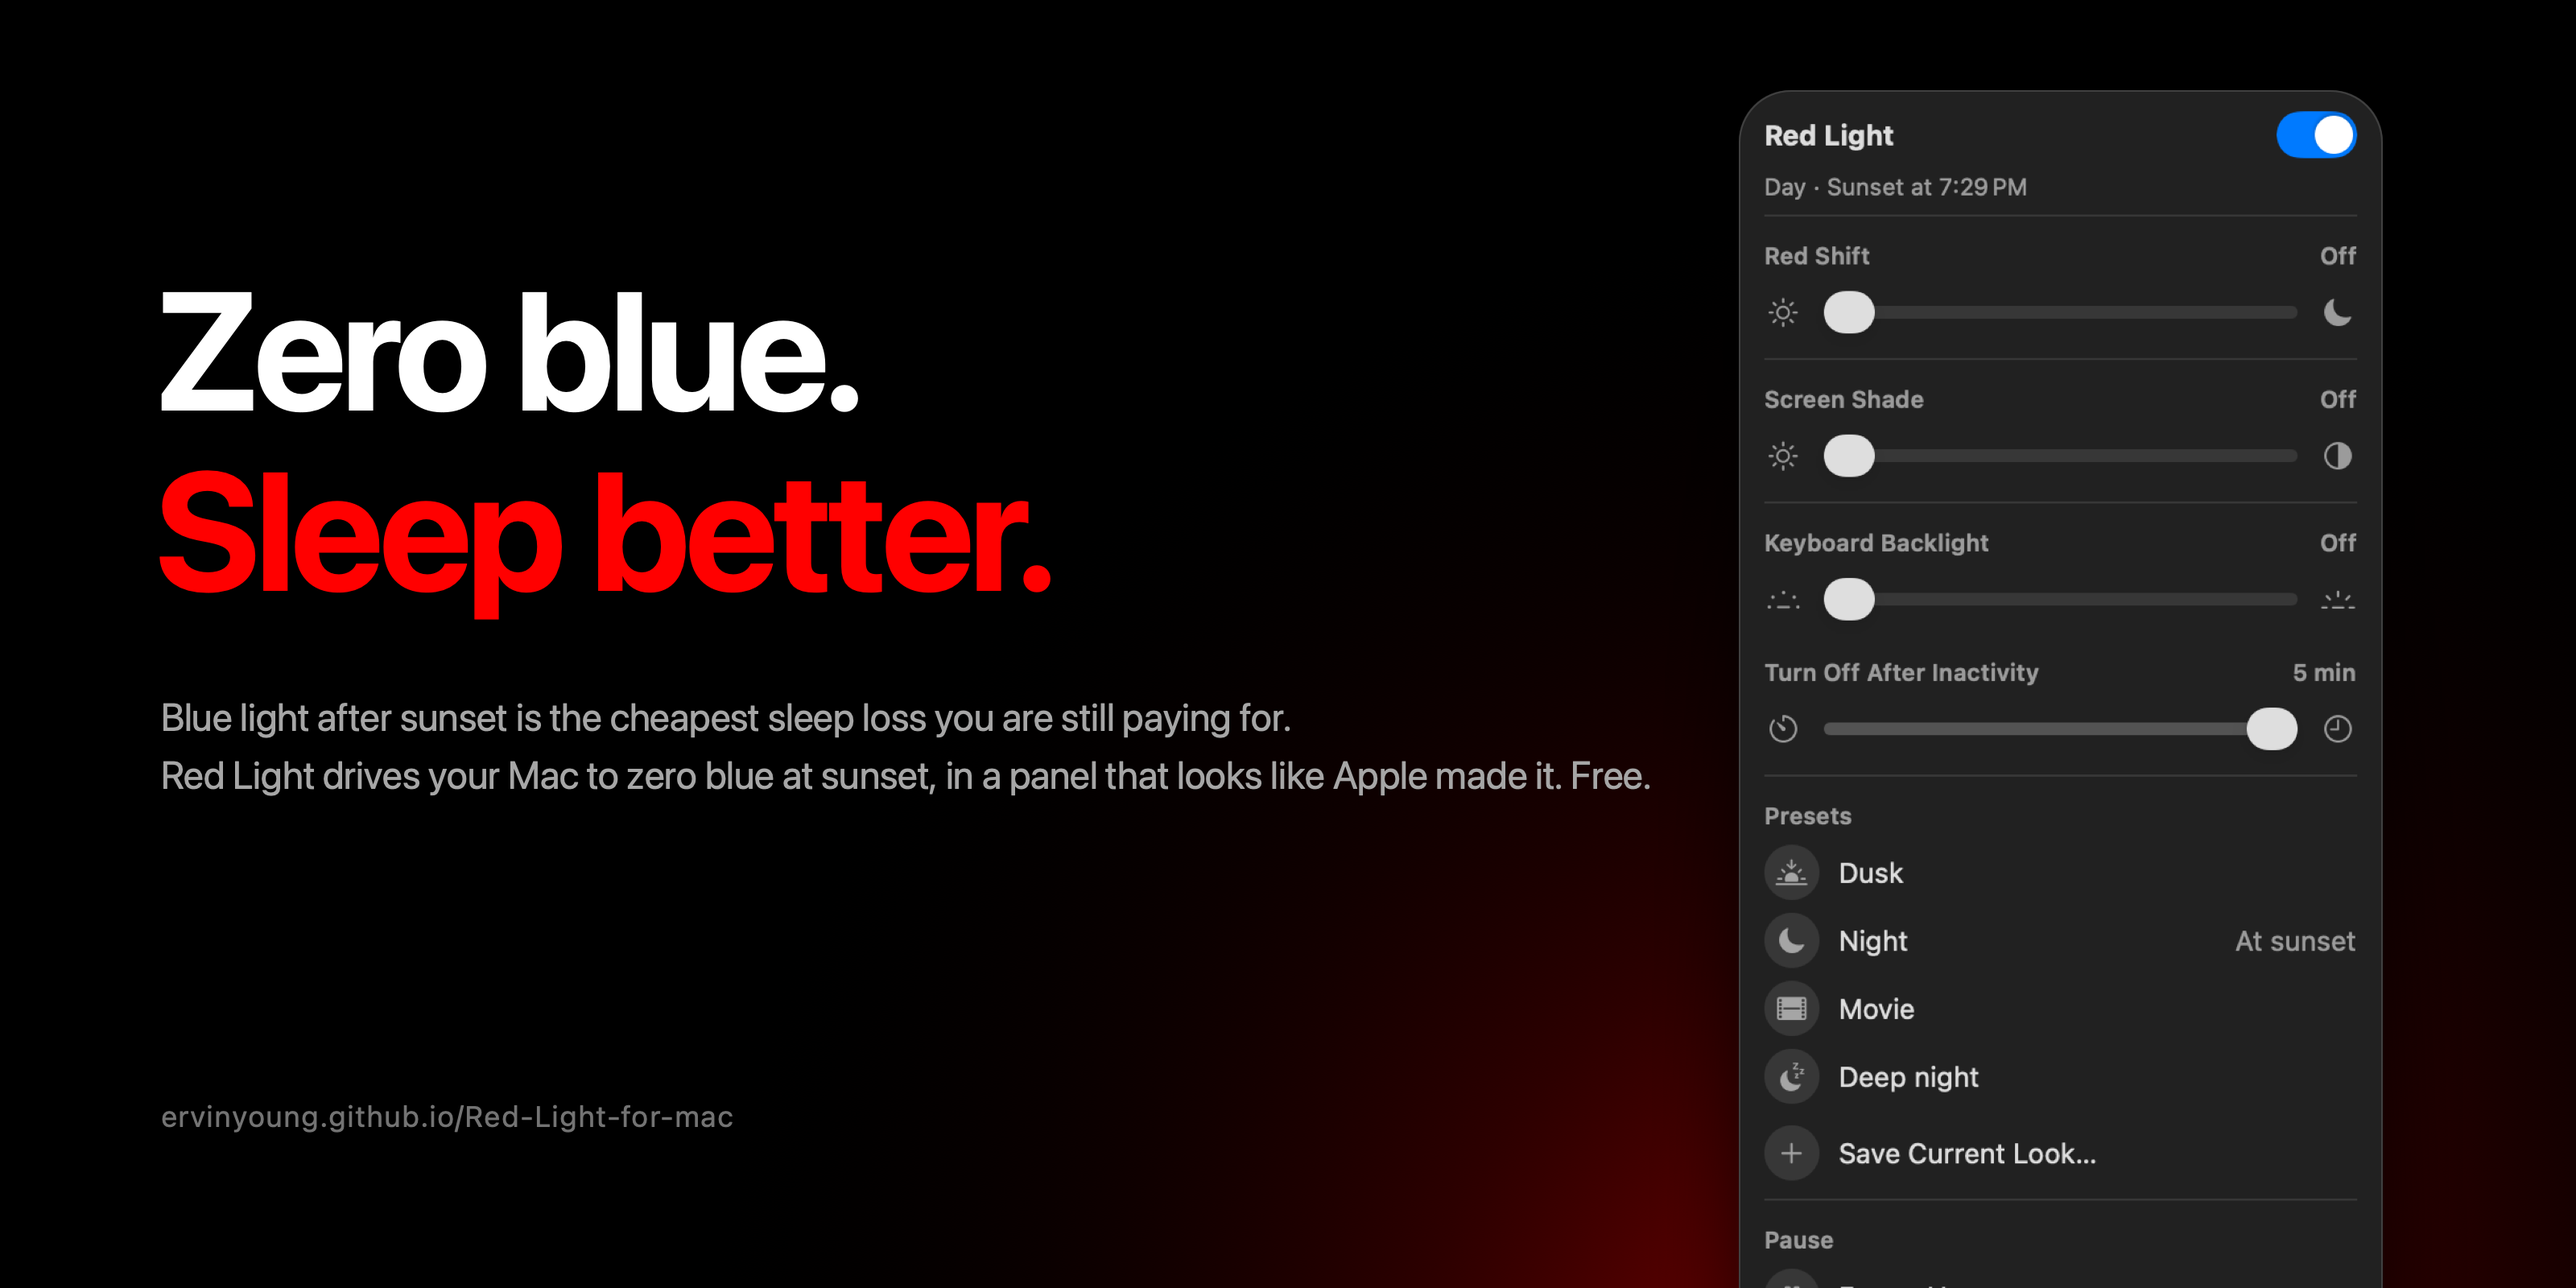
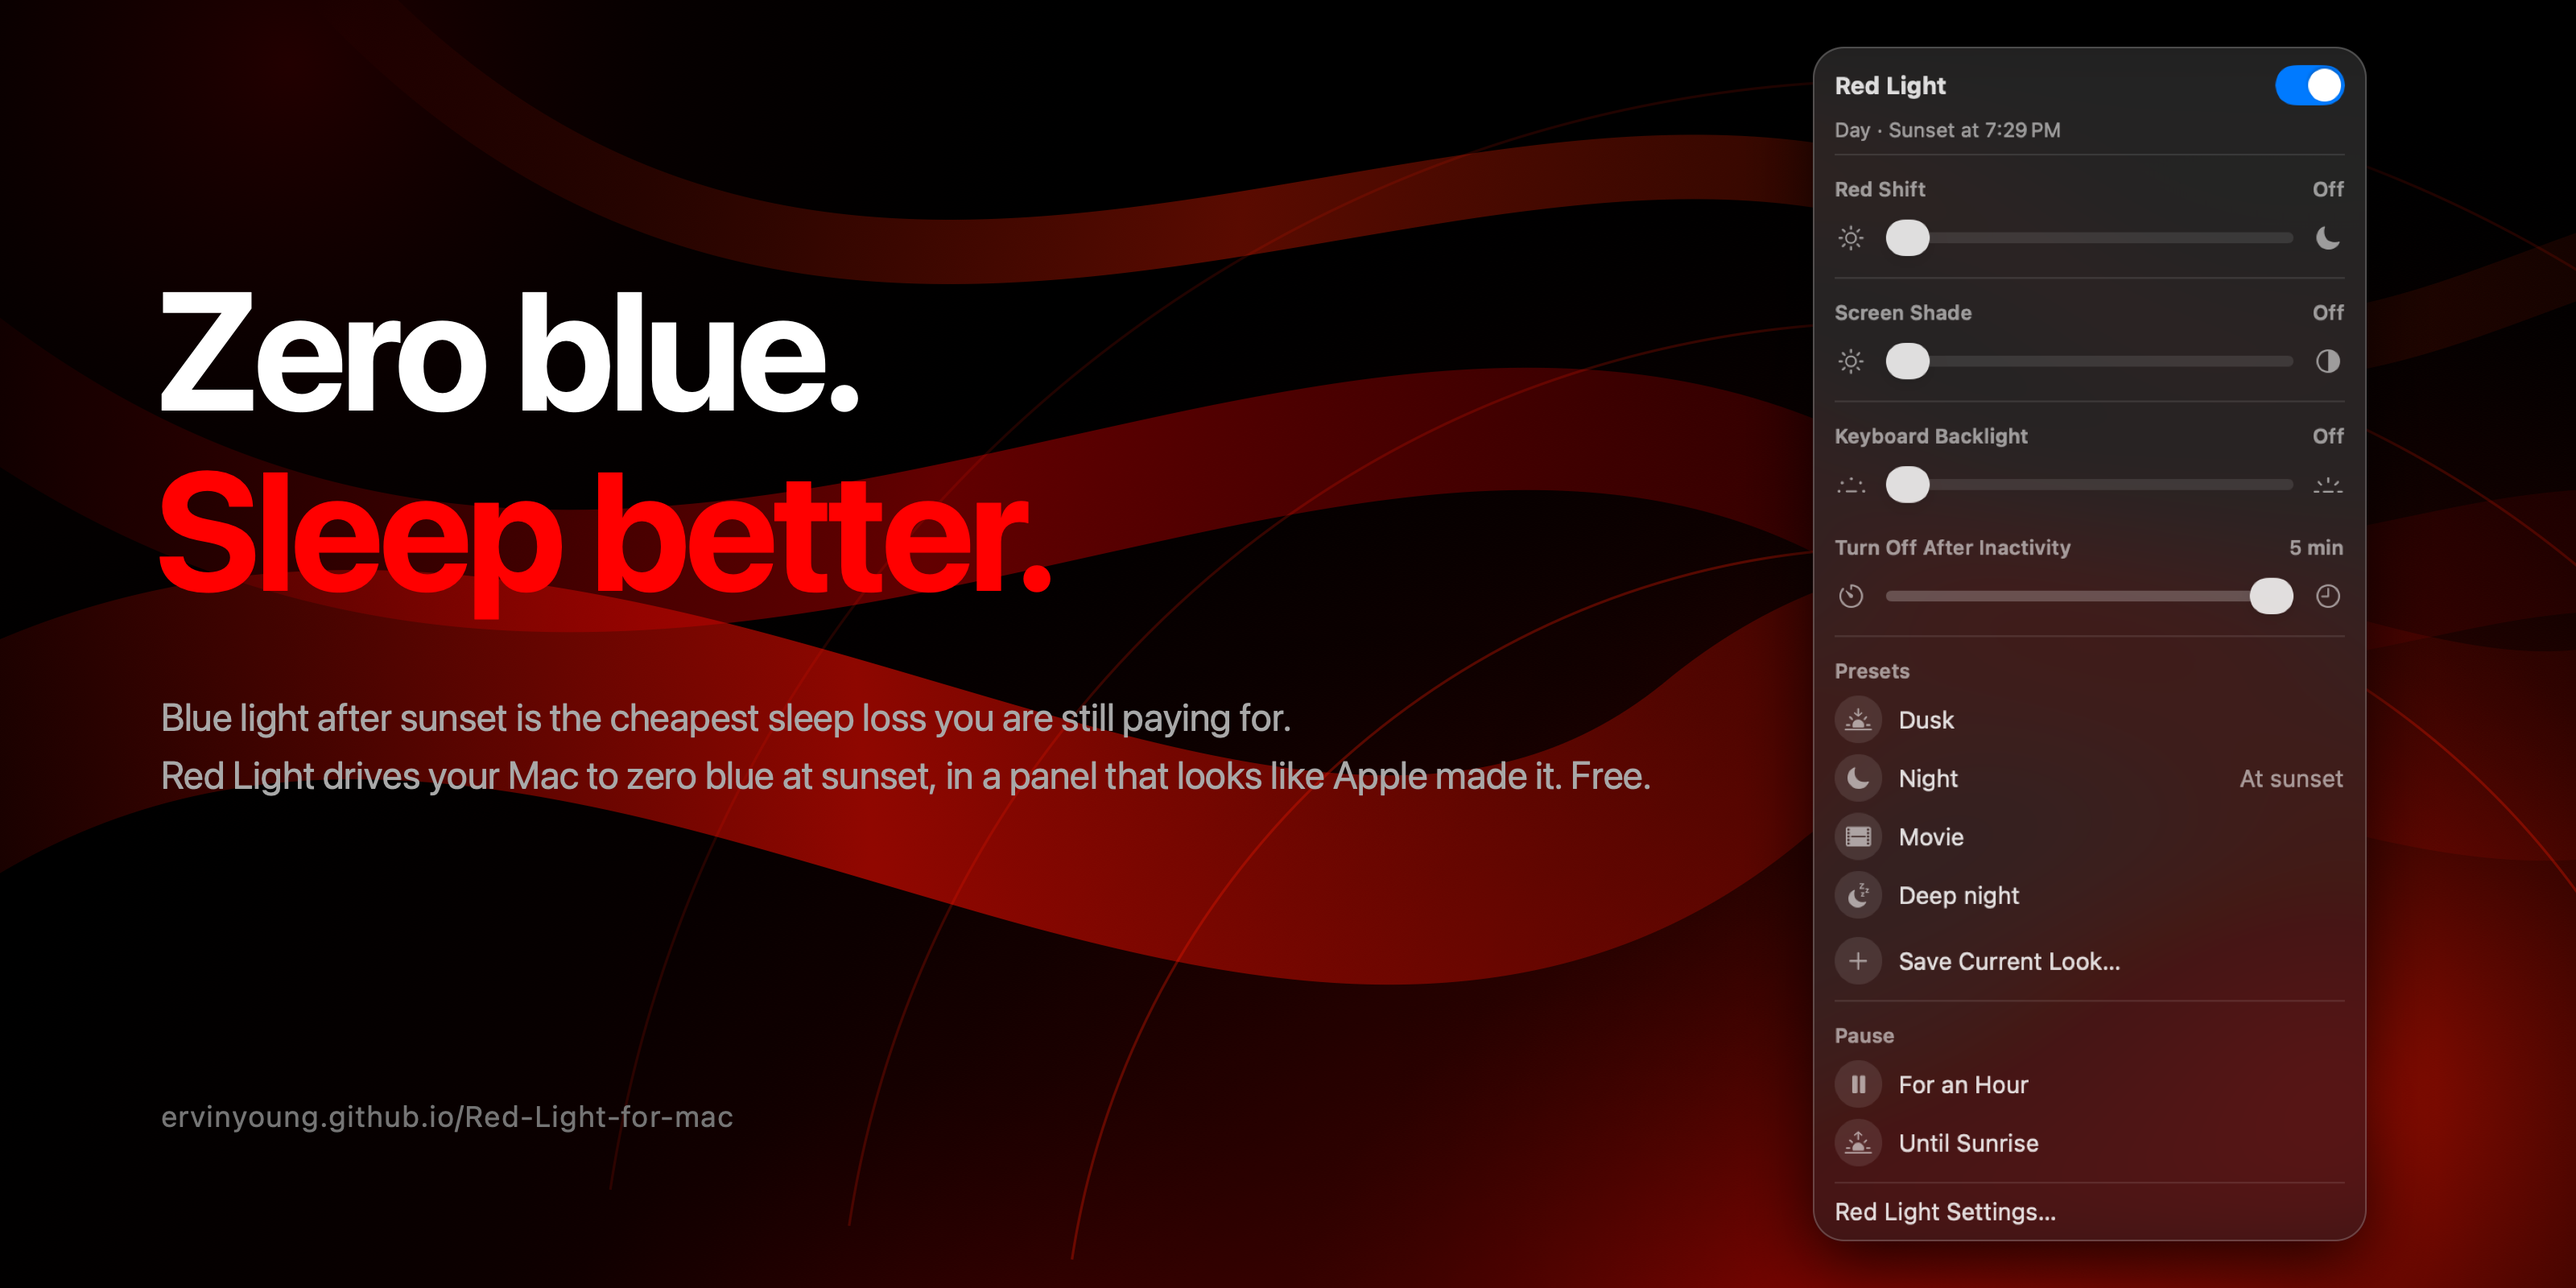
Hero: the app's real pixels over black-and-red artwork, composited through real glass
The panel is exported with a transparent backdrop and composited over generated artwork whose area behind
the pane is blurred, saturated and scrimmed, so the translucency is genuine rather than drawn. Every colour
in the artwork comes from rgb(r, g, 0), so the background carries no blue.

diff --git a/tools/hero.swift b/tools/hero.swift
@@ -1,0 +1,104 @@
+import AppKit
+import CoreImage
+import CoreImage.CIFilterBuiltins
+
+let W: CGFloat = 1600, H: CGFloat = 800, S: CGFloat = 2      // points, then 2× for the export
+let panelPNG = NSImage(contentsOfFile: "panel-clear.png")!   // the app's own pixels, transparent behind them
+
+// ── The artwork: black, and red with no blue in it ──────────────────────────────────────
+// Everything below is drawn from rgb(r,g,0): the same constraint the app puts on your screen.
+func drawArt(_ cg: CGContext) {
+    let cs = CGColorSpaceCreateDeviceRGB()
+    func c(_ r: CGFloat, _ g: CGFloat, _ a: CGFloat) -> CGColor { CGColor(colorSpace: cs, components: [r, g, 0, a])! }
+    cg.setFillColor(c(0, 0, 1)); cg.fill(CGRect(x: 0, y: 0, width: W, height: H))
+
+    // deep glows, low on the canvas, like light pooling under a horizon
+    for (x, y, rad, r, g, a) in [(1180.0, -140.0, 900.0, 1.00, 0.04, 0.85),
+                                 (1460.0,  120.0, 620.0, 0.92, 0.08, 0.55),
+                                 ( 620.0, -220.0, 780.0, 0.62, 0.00, 0.55),
+                                 ( 180.0,  760.0, 520.0, 0.45, 0.00, 0.30)] {
+        let grad = CGGradient(colorsSpace: cs, colors: [c(r, g, a), c(r * 0.5, g * 0.4, a * 0.35), c(0, 0, 0)] as CFArray, locations: [0, 0.45, 1])!
+        cg.drawRadialGradient(grad, startCenter: CGPoint(x: x, y: y), startRadius: 0, endCenter: CGPoint(x: x, y: y), endRadius: rad, options: [])
+    }
+    // ribbons: long sweeping bands, each a gradient along its own length
+    func ribbon(_ pts: [CGPoint], width: CGFloat, r: CGFloat, g: CGFloat, a: CGFloat) {
+        let p = CGMutablePath()
+        p.move(to: pts[0])
+        var i = 1
+        while i + 2 < pts.count { p.addCurve(to: pts[i+2], control1: pts[i], control2: pts[i+1]); i += 3 }
+        cg.saveGState()
+        cg.addPath(p.copy(strokingWithWidth: width, lineCap: .round, lineJoin: .round, miterLimit: 10))
+        cg.clip()
+        let grad = CGGradient(colorsSpace: cs, colors: [c(r, g, 0), c(r, g, a), c(r * 0.7, g, a * 0.5), c(r, g, 0)] as CFArray, locations: [0, 0.35, 0.7, 1])!
+        cg.drawLinearGradient(grad, start: pts.first!, end: pts.last!, options: [])
+        cg.restoreGState()
+    }
+    ribbon([CGPoint(x: -120, y: 250), CGPoint(x: 300, y: 620), CGPoint(x: 760, y: 60), CGPoint(x: 1080, y: 330),
+            CGPoint(x: 1320, y: 520), CGPoint(x: 1560, y: 180), CGPoint(x: 1760, y: 420)], width: 130, r: 1.0, g: 0.05, a: 0.55)
+    ribbon([CGPoint(x: -80, y: 620), CGPoint(x: 380, y: 200), CGPoint(x: 820, y: 700), CGPoint(x: 1180, y: 470),
+            CGPoint(x: 1420, y: 300), CGPoint(x: 1680, y: 640), CGPoint(x: 1820, y: 300)], width: 76, r: 0.85, g: 0.00, a: 0.45)
+    ribbon([CGPoint(x: 200, y: 820), CGPoint(x: 560, y: 420), CGPoint(x: 980, y: 860), CGPoint(x: 1300, y: 620),
+            CGPoint(x: 1500, y: 480), CGPoint(x: 1720, y: 820), CGPoint(x: 1860, y: 560)], width: 40, r: 1.0, g: 0.12, a: 0.35)
+    // a few thin arcs, the last light of something
+    for (cx, cy, rr, a) in [(1180.0, -60.0, 520.0, 0.30), (1180.0, -60.0, 660.0, 0.20), (1180.0, -60.0, 810.0, 0.13)] {
+        cg.setStrokeColor(c(1.0, 0.10, a)); cg.setLineWidth(1.6)
+        cg.addArc(center: CGPoint(x: cx, y: cy), radius: rr, startAngle: 0.15, endAngle: .pi - 0.15, clockwise: false)
+        cg.strokePath()
+    }
+}
+
+// ── Canvas ──────────────────────────────────────────────────────────────────────────────
+let rep = NSBitmapImageRep(bitmapDataPlanes: nil, pixelsWide: Int(W*S), pixelsHigh: Int(H*S), bitsPerSample: 8,
+                           samplesPerPixel: 4, hasAlpha: true, isPlanar: false, colorSpaceName: .deviceRGB, bytesPerRow: 0, bitsPerPixel: 0)!
+rep.size = NSSize(width: W, height: H)
+let saved = NSGraphicsContext.current
+NSGraphicsContext.current = NSGraphicsContext(bitmapImageRep: rep)
+drawArt(NSGraphicsContext.current!.cgContext)
+NSGraphicsContext.current = saved
+print("art drawn")
+guard let artCG = rep.cgImage else { fatalError("no cgImage from rep") }
+let ci = CIImage(cgImage: artCG)
+
+// ── The glass: blur what is behind the panel, lift its saturation, then lay a dark scrim over it ──
+let pw: CGFloat = 344, ph = pw * panelPNG.size.height / panelPNG.size.width
+let panelRect = CGRect(x: W - pw - 130, y: (H - ph) / 2, width: pw, height: ph)   // the whole panel, in frame
+let blur = CIFilter.gaussianBlur(); blur.inputImage = ci; blur.radius = Float(34 * S)
+let sat = CIFilter.colorControls(); sat.inputImage = blur.outputImage; sat.saturation = 1.9; sat.brightness = 0.02
+let ctx = CIContext()
+guard let out = sat.outputImage, let glassCG = ctx.createCGImage(out.clampedToExtent(), from: CGRect(x: 0, y: 0, width: W*S, height: H*S)) else { fatalError("no glass image") }
+print("glass built")
+
+NSGraphicsContext.current = NSGraphicsContext(bitmapImageRep: rep)
+guard let g = NSGraphicsContext.current?.cgContext else { fatalError("no ctx") }
+let radius: CGFloat = 19
+let clip = CGPath(roundedRect: panelRect, cornerWidth: radius, cornerHeight: radius, transform: nil)
+g.saveGState()
+g.setShadow(offset: CGSize(width: 0, height: -14), blur: 46, color: CGColor(gray: 0, alpha: 0.75))
+g.addPath(clip); g.setFillColor(CGColor(gray: 0, alpha: 1)); g.fillPath()      // shadow caster
+g.restoreGState()
+g.saveGState()
+g.addPath(clip); g.clip()
+g.draw(glassCG, in: CGRect(x: 0, y: 0, width: W, height: H))                    // the blurred backdrop
+g.setFillColor(CGColor(gray: 0.10, alpha: 0.62)); g.fill(panelRect)             // the scrim the panel adds
+panelPNG.draw(in: panelRect, from: .zero, operation: .sourceOver, fraction: 1)  // the app's own pixels
+g.restoreGState()
+// the hairline the system draws around a glass pane
+g.addPath(CGPath(roundedRect: panelRect.insetBy(dx: 0.5, dy: 0.5), cornerWidth: radius, cornerHeight: radius, transform: nil))
+g.setStrokeColor(CGColor(gray: 1, alpha: 0.20)); g.setLineWidth(1); g.strokePath()
+
+// ── Type ────────────────────────────────────────────────────────────────────────────────
+func draw(_ t: String, _ size: CGFloat, _ w: NSFont.Weight, _ col: NSColor, _ p: NSPoint, _ track: CGFloat) {
+    let fam = size >= 20 ? "SF Pro Display" : "SF Pro Text"
+    let f = NSFont(name: fam, size: size).map { NSFontManager.shared.convert($0, toHaveTrait: w == .bold ? .boldFontMask : []) } ?? NSFont.systemFont(ofSize: size, weight: w)
+    NSAttributedString(string: t, attributes: [.font: f, .foregroundColor: col, .kern: track]).draw(at: p)
+}
+draw("Zero blue.", 104, .bold, .white, NSPoint(x: 96, y: 520), -3)
+draw("Sleep better.", 104, .bold, NSColor(srgbRed: 1, green: 0, blue: 0, alpha: 1), NSPoint(x: 96, y: 408), -3)
+let grey = NSColor(white: 0.66, alpha: 1)
+draw("Blue light after sunset is the cheapest sleep loss you are still paying for.", 24, .regular, grey, NSPoint(x: 100, y: 340), 0)
+draw("Red Light drives your Mac to zero blue at sunset, in a panel that looks like Apple made it. Free.", 24, .regular, grey, NSPoint(x: 100, y: 304), 0)
+draw("ervinyoung.github.io/Red-Light-for-mac", 18, .semibold, NSColor(white: 0.46, alpha: 1), NSPoint(x: 100, y: 96), 0.5)
+NSGraphicsContext.current = saved
+print("composited")
+try! rep.representation(using: .png, properties: [:])!.write(to: URL(fileURLWithPath: "/Users/ervinyoung/Documents/Claude/red-light-for-mac/docs/img/hero.png"))
+print("wrote hero.png \(rep.pixelsWide)x\(rep.pixelsHigh)  panel \(Int(pw))×\(Int(ph)) pt")

diff --git a/app/RedLightApp.swift b/app/RedLightApp.swift
@@ -843,7 +843,7 @@ func snapshotIfRequested() {
         model.refresh()
         DispatchQueue.main.asyncAfter(deadline: .now() + 1.5) {
             let ap = NSAppearance(named: args.contains("light") ? .aqua : .darkAqua)
-            let host = NSHostingView(rootView: SnapshotRoot(m: model, page: page, light: args.contains("light")))
+            let host = NSHostingView(rootView: SnapshotRoot(m: model, page: page, light: args.contains("light"), clear: args.contains("clear")))
             host.appearance = ap
             host.frame = NSRect(x: 0, y: 0, width: 303, height: 10)
             let win = NSWindow(contentRect: host.frame, styleMask: .borderless, backing: .buffered, defer: false)
@@ -868,12 +868,13 @@ func snapshotIfRequested() {
     app.run()
 }
 struct SnapshotRoot: View {
-    @ObservedObject var m: Model; let page: String; var light = false
+    @ObservedObject var m: Model; let page: String; var light = false; var clear = false
     var body: some View {
         Group { if page == "main" { Panel(m: m) } else { SettingsPage(m: m, back: {}) .frame(width: 303) } }
             .fixedSize(horizontal: false, vertical: true)
-            // stands in for the system glass in the export, at the tone each appearance shows through it
-            .background(light ? Color(white: 0.96) : Color(white: 0.13))
+            // stands in for the system glass in the export; `clear` leaves it out so the panel can be
+            // composited over real artwork with a real blurred backdrop
+            .background(clear ? Color.clear : (light ? Color(white: 0.96) : Color(white: 0.13)))
     }
 }
 

diff --git a/tools/README.md b/tools/README.md
@@ -1,0 +1,10 @@
+# tools
+
+`hero.swift` builds `docs/img/hero.png`. It composites the app's own pixels over generated artwork:
+
+1. `Red Light.app --snapshot panel-clear.png clear` exports the panel with a transparent backdrop.
+2. The artwork is drawn from `rgb(r, g, 0)` only, so the background carries no blue at all.
+3. The area behind the panel is Gaussian-blurred, its saturation lifted, and a dark scrim laid over it,
+   which is what the system's glass does, so the panel really is translucent over the art.
+
+    swiftc -O hero.swift -o hero && ./hero
